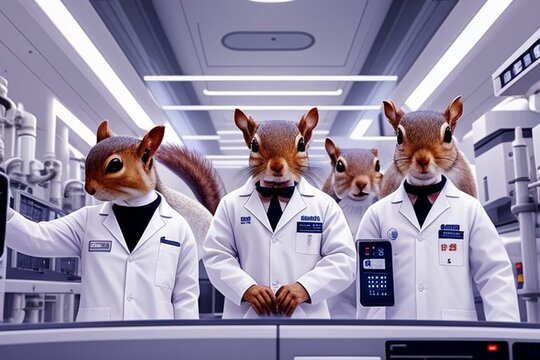
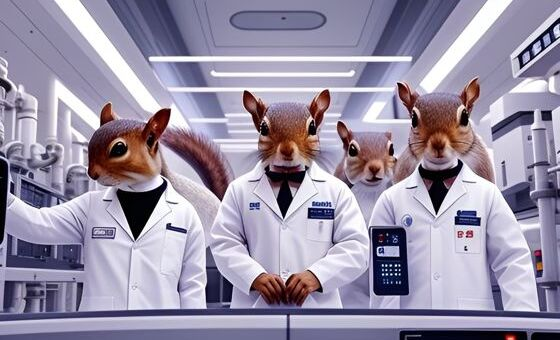
Plugins updated

diff --git a/Working/coalition.shopping/README.md b/Working/coalition.shopping/README.md
@@ -11,6 +11,10 @@ To start the mission to enable these outfitters and shipyards, you have to join 
 <br>
 Changelog:<br>
 <br>
+2024-11-09<br>
+corrected scene size<br>
+added @2x images<br>
+<br>
 2024-09-15<br>
 some error fixing, adjustments and text improvements (thx to timeout.fu)<br>
 more text adjustments (from TheGiraffe3)<br>

diff --git a/Working/snowfeather.robotics/README.md b/Working/snowfeather.robotics/README.md
@@ -13,6 +13,10 @@ The new buyable worker androids are twice as expensive as the original ones, and
 <br>
 Changelog:<br>
 <br>
+2024-11-09<br>
+corrected scene size<br>
+added @2x images<br>
+<br>
 2024-05-03<br>
 added 6 combat androids<br>
 added new outfit category "Androids"<br>
